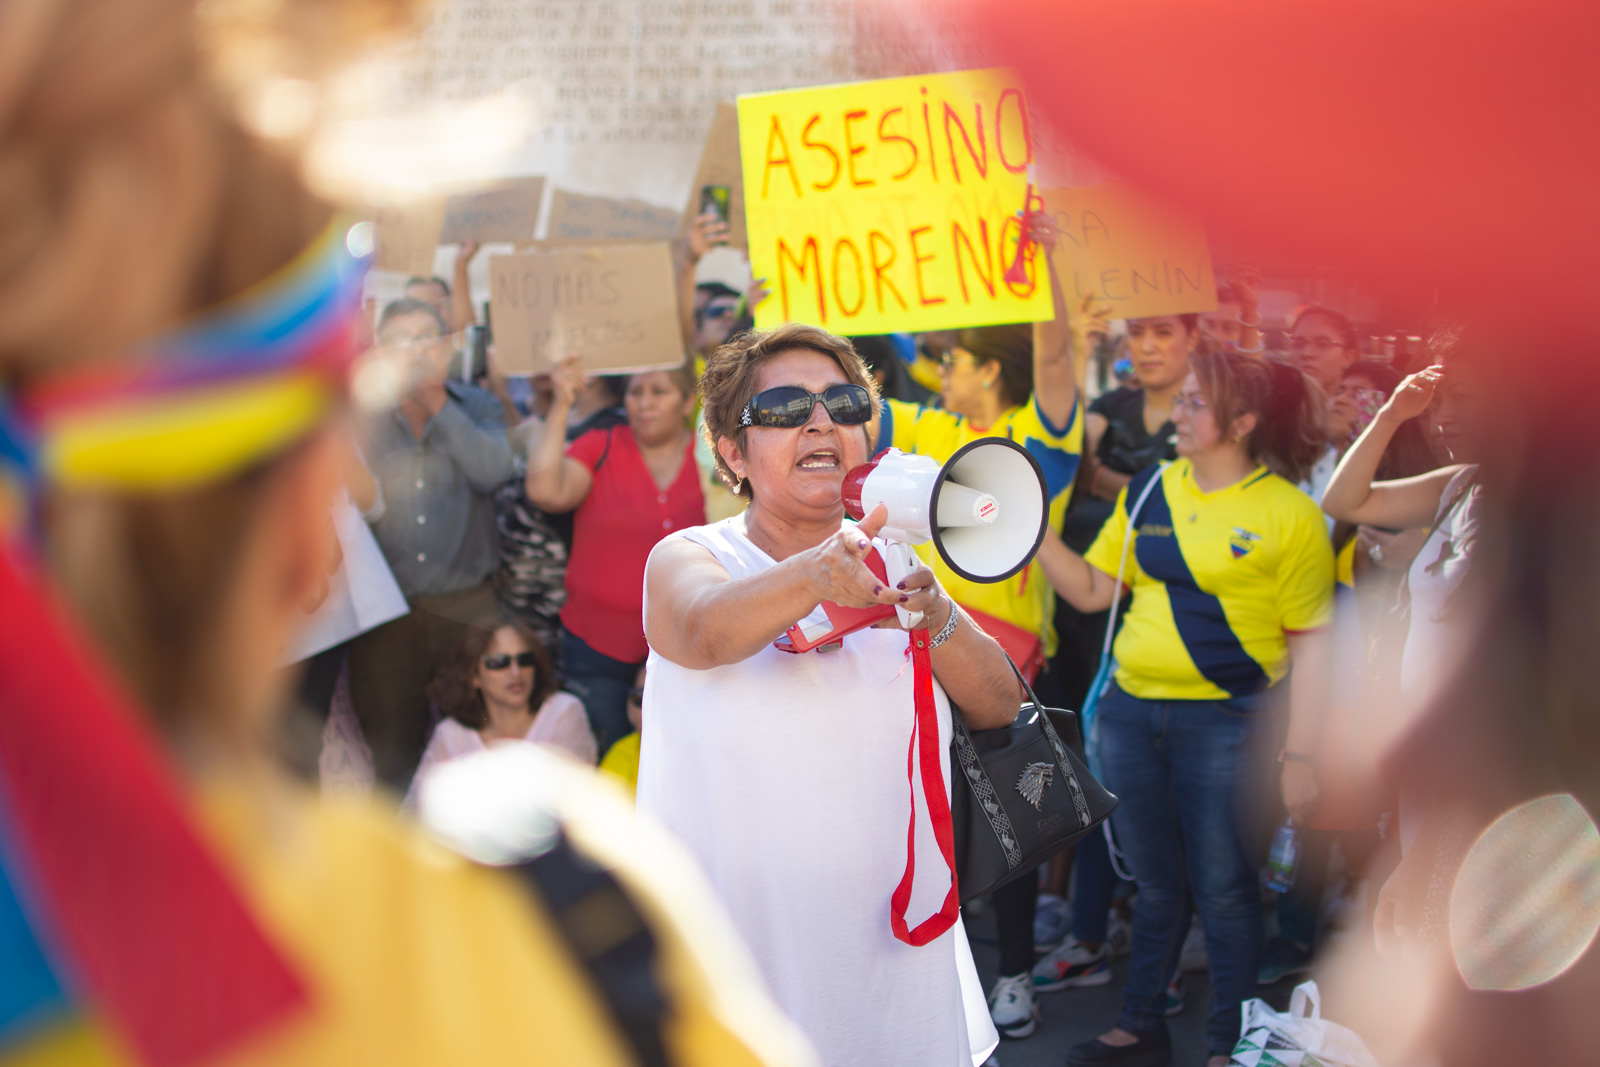
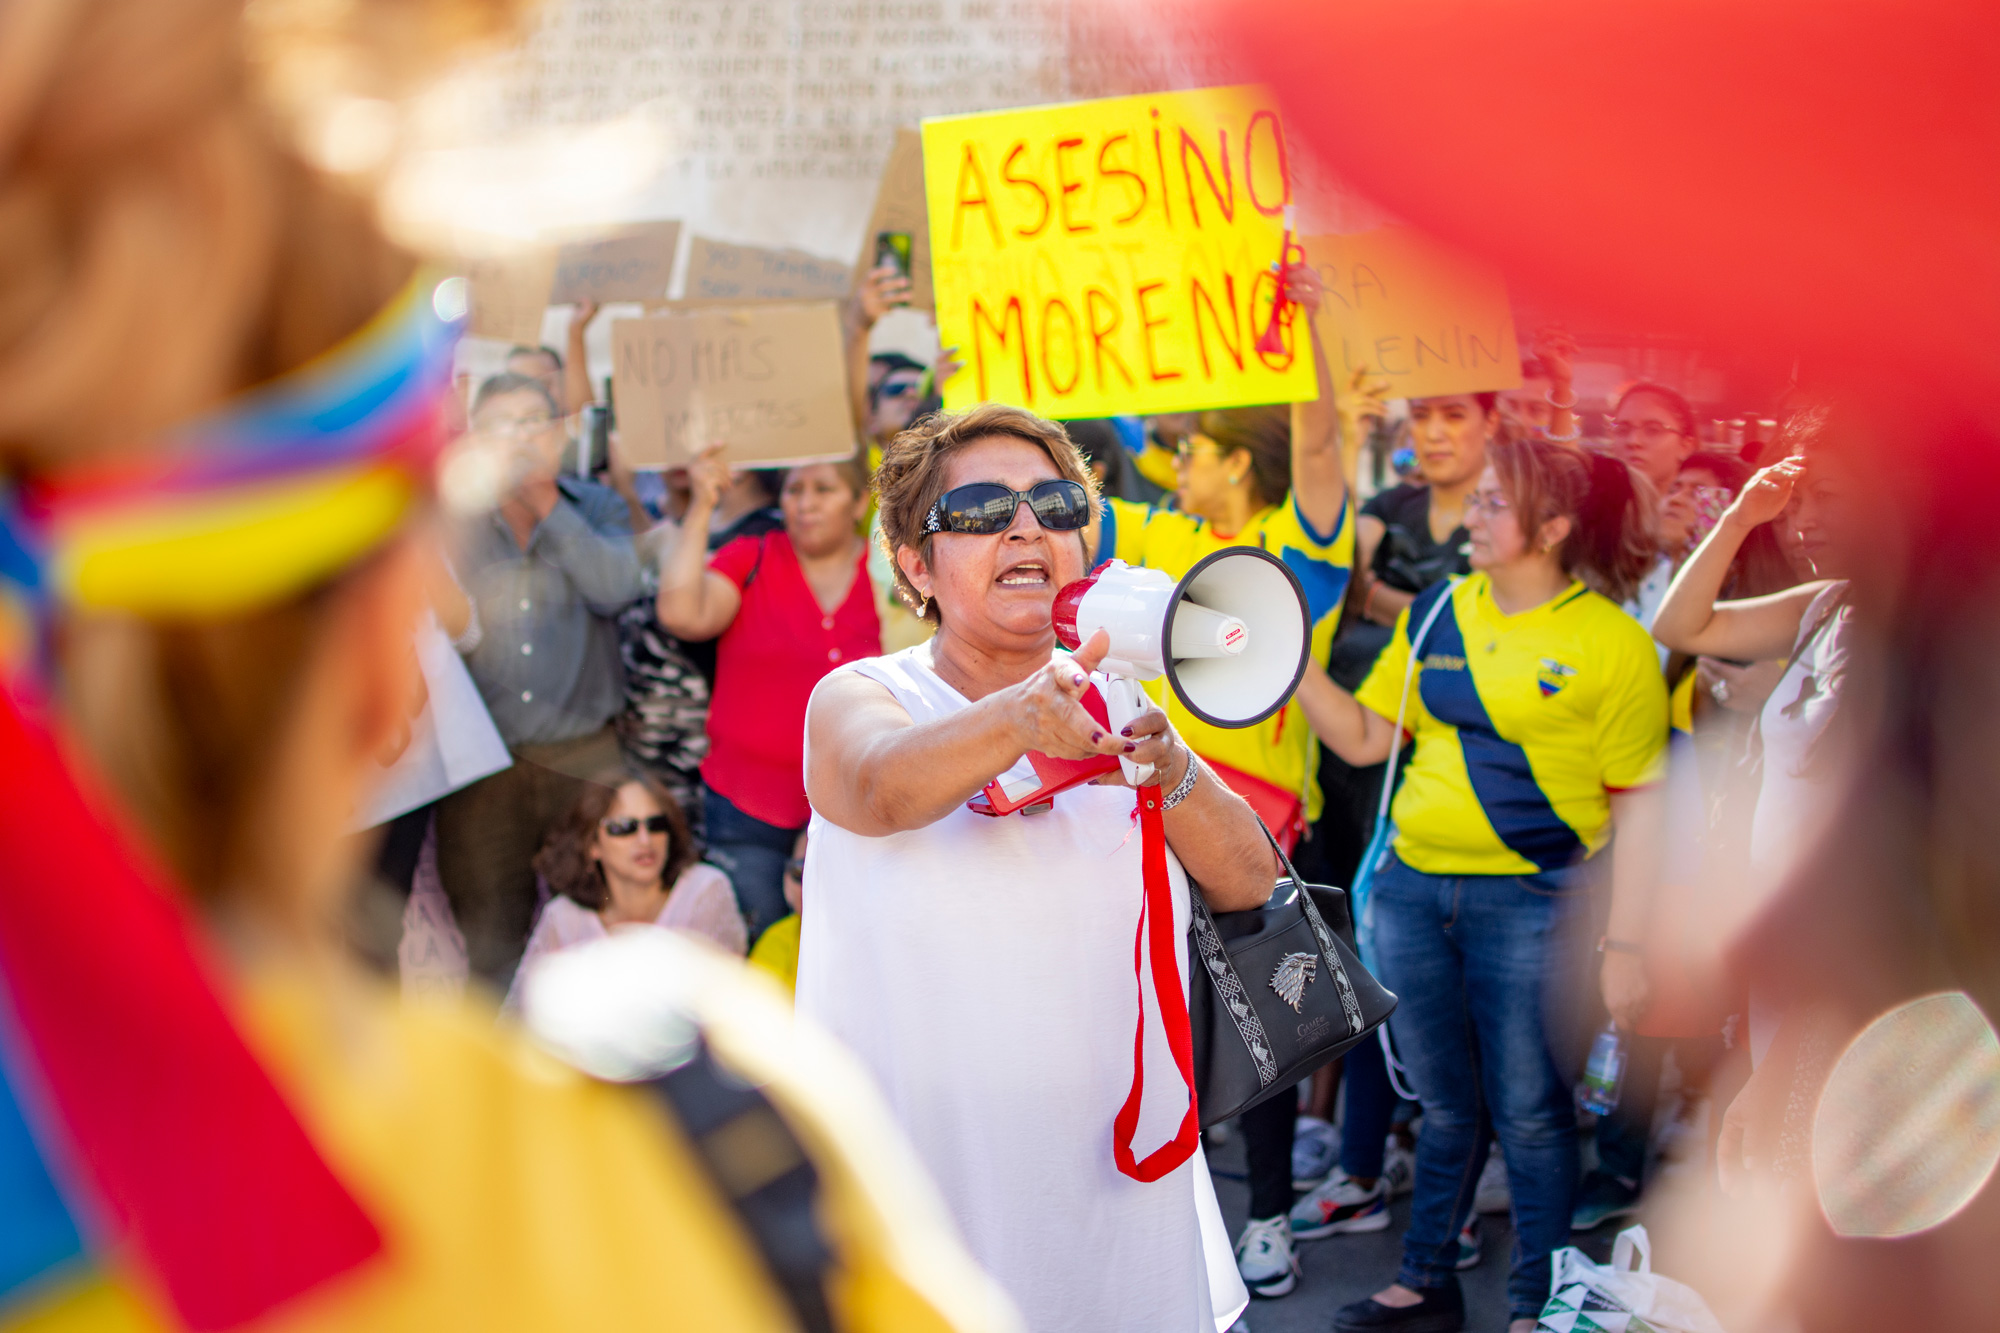
Update content of photography profile.

diff --git a/_sass/sscummings/templates/_archive-photography.scss b/_sass/sscummings/templates/_archive-photography.scss
@@ -111,6 +111,27 @@
 		  "first first"
 		  "second third";
 	}
+	.seventy-thirty-over-two {
+		grid-template-areas: 
+		  "first first"
+		  "second second"
+		  "third fourth";
+		
+		@include mq-up($md-up) {
+			grid-template-areas: 
+			  "first first first first second second"
+			  "third third third fourth fourth fourth";
+
+			*:first-child {
+				a {
+					padding-bottom: 0;
+					height: 100%;
+					display: flex;
+					align-items: stretch;
+				}
+			}
+		}
+	}
 	.three-over-one {
 		grid-template-areas: 
 		  "first first"

diff --git a/_includes/photo-lightbox.html b/_includes/photo-lightbox.html
@@ -8,7 +8,11 @@
 <a
     class="{{ link_classes }}"
     data-lightbox="{{ lightbox_name }}"
-    data-title="{{ post.caption | escape }}, {{ post.city }}, {{ post.state }}, {{ post.year }}"
+    data-title="{{ post.caption | escape }},
+        {%- if post.city %} {{ post.city }},{% endif -%}   
+        {%- if post.state %} {{ post.state }}, {% endif -%}
+        {%- if post.country %} {{ post.country }}, {% endif -%}
+        {{ post.year }}"
     href="../assets/{{ post.img }}"
 >
     <img

diff --git a/_photography/2019-10-13-madrid-04.md b/_photography/2019-10-13-madrid-04.md
@@ -1,9 +1,9 @@
 ---
 title:  	Ecuadorian demonstrators in Madrid
-caption:	Speaking out against the Moreno government's violent response to protests in Ecuador
+caption:	Taking a moment to reflect while calling for an end to the violence in Ecuador
 date:   	2019-10-13 12:03:00 +0200
 categories: photography
-img:		photography/20191013-madrid-03.jpg
+img:		photography/20191013-madrid-04.jpg
 year:		2019
 medium:
 city:		Madrid

diff --git a/_photography/2019-09-20-amsterdam-02.md b/_photography/2019-09-20-amsterdam-02.md
@@ -1,6 +1,6 @@
 ---
 title:  	Extinction Rebellion at the Amsterdam Climate Strike
-caption:	Extinction Rebellion demonstrators raise their voices at the Amsterdam Climate Strike
+caption:	Extinction Rebellion demonstrators call for action at the Amsterdam Climate Strike
 date:   	2019-09-20 12:32:00 +0200
 categories: photography
 img:		photography/20190920-amsterdam-04.jpg

diff --git a/_photography/2021-04-15-phoenix-01.md b/_photography/2021-04-15-phoenix-01.md
@@ -1,0 +1,12 @@
+---
+title:  	Demonstrating with the W.E. Rising Project
+caption:	Supporting the call for a Neighborhood-Organized Crisis Assistance Program to minimize non-emergency police encounters
+date:   	2021-04-15 11:49:56 -0500
+categories: photography
+img:		photography/20210415-phoenix-01.jpg
+year:		2021
+medium:
+city:		Phoenix
+state:		Arizona
+country:
+---

diff --git a/_photography/2019-09-27-thehague-03.md b/_photography/2019-09-27-thehague-03.md
@@ -1,0 +1,12 @@
+---
+title:  	Fridays for Future calls for climate action at The Hague
+caption:	Thousands of demonstrators fill the streets of The Hague during the international Climate Strike
+date:   	2019-09-27 12:33:00 +0200
+categories: photography
+img:		photography/20190927-thehague-03.jpg
+year:		2019
+medium:
+city:		The Hague
+state:
+country:	Netherlands
+---

diff --git a/_photography/2020-06-06-phoenix-02.md b/_photography/2020-06-06-phoenix-02.md
@@ -1,0 +1,12 @@
+---
+title:  	Marching for justice in Phoenix
+caption:	The nationwide call for justice for George Floyd and victims of police violence fills the streets of  Arizona's largest city
+date:   	2020-06-06 11:49:56 -0500
+categories: photography
+img:		photography/20200606-phoenix-02.jpg
+year:		2020
+medium:
+city:		Phoenix
+state:		Arizona
+country:
+---

diff --git a/_photography/2021-10-02-phoenix-03.md b/_photography/2021-10-02-phoenix-03.md
@@ -1,0 +1,12 @@
+---
+title:  	Phoenix Women's March
+caption:	Phoenix Women's March organizer Eva Burch addresses the crowd following their march around the capitol
+date:   	2021-10-02 11:49:56 -0500
+categories: photography
+img:		photography/20211002-phoenix-03.jpg
+year:		2021
+medium:
+city:		Phoenix
+state:		Arizona
+country:
+---

diff --git a/_photography/2019-09-20-amsterdam-05.md b/_photography/2019-09-20-amsterdam-05.md
@@ -1,0 +1,12 @@
+---
+title:  	Youth Climate Strike, Amsterdam
+caption:	The international Climate Strike winds its way through the streets of Amsterdam
+date:   	2019-09-20 12:33:00 +0200
+categories: photography
+img:		photography/20190920-amsterdam-05.jpg
+year:		2019
+medium:
+city:		Amsterdam
+state:
+country:	Netherlands
+---

diff --git a/_photography/2021-10-02-phoenix-01.md b/_photography/2021-10-02-phoenix-01.md
@@ -1,0 +1,12 @@
+---
+title:  	Phoenix Women's March
+caption:	A demonstrator tries to calm tensions with counterprotestors at the Phoenix Women's March
+date:   	2021-10-02 11:49:56 -0500
+categories: photography
+img:		photography/20211002-phoenix-01.jpg
+year:		2021
+medium:
+city:		Phoenix
+state:		Arizona
+country:
+---

diff --git a/_photography/2020-06-06-phoenix-01.md b/_photography/2020-06-06-phoenix-01.md
@@ -1,0 +1,12 @@
+---
+title:  	Marching for justice in Phoenix
+caption:	Marching for an end to police violence and calling for justice for Black lives
+date:   	2020-06-06 11:49:56 -0500
+categories: photography
+img:		photography/20200606-phoenix-01.jpg
+year:		2020
+medium:
+city:		Phoenix
+state:		Arizona
+country:
+---

diff --git a/_photography/2021-10-02-phoenix-02.md b/_photography/2021-10-02-phoenix-02.md
@@ -1,0 +1,12 @@
+---
+title:  	Phoenix Women's March
+caption:	Native women lead the march around the Arizona capitol at the Phoenix Women's March
+date:   	2021-10-02 11:49:56 -0500
+categories: photography
+img:		photography/20211002-phoenix-02.jpg
+year:		2021
+medium:
+city:		Phoenix
+state:		Arizona
+country:
+---
